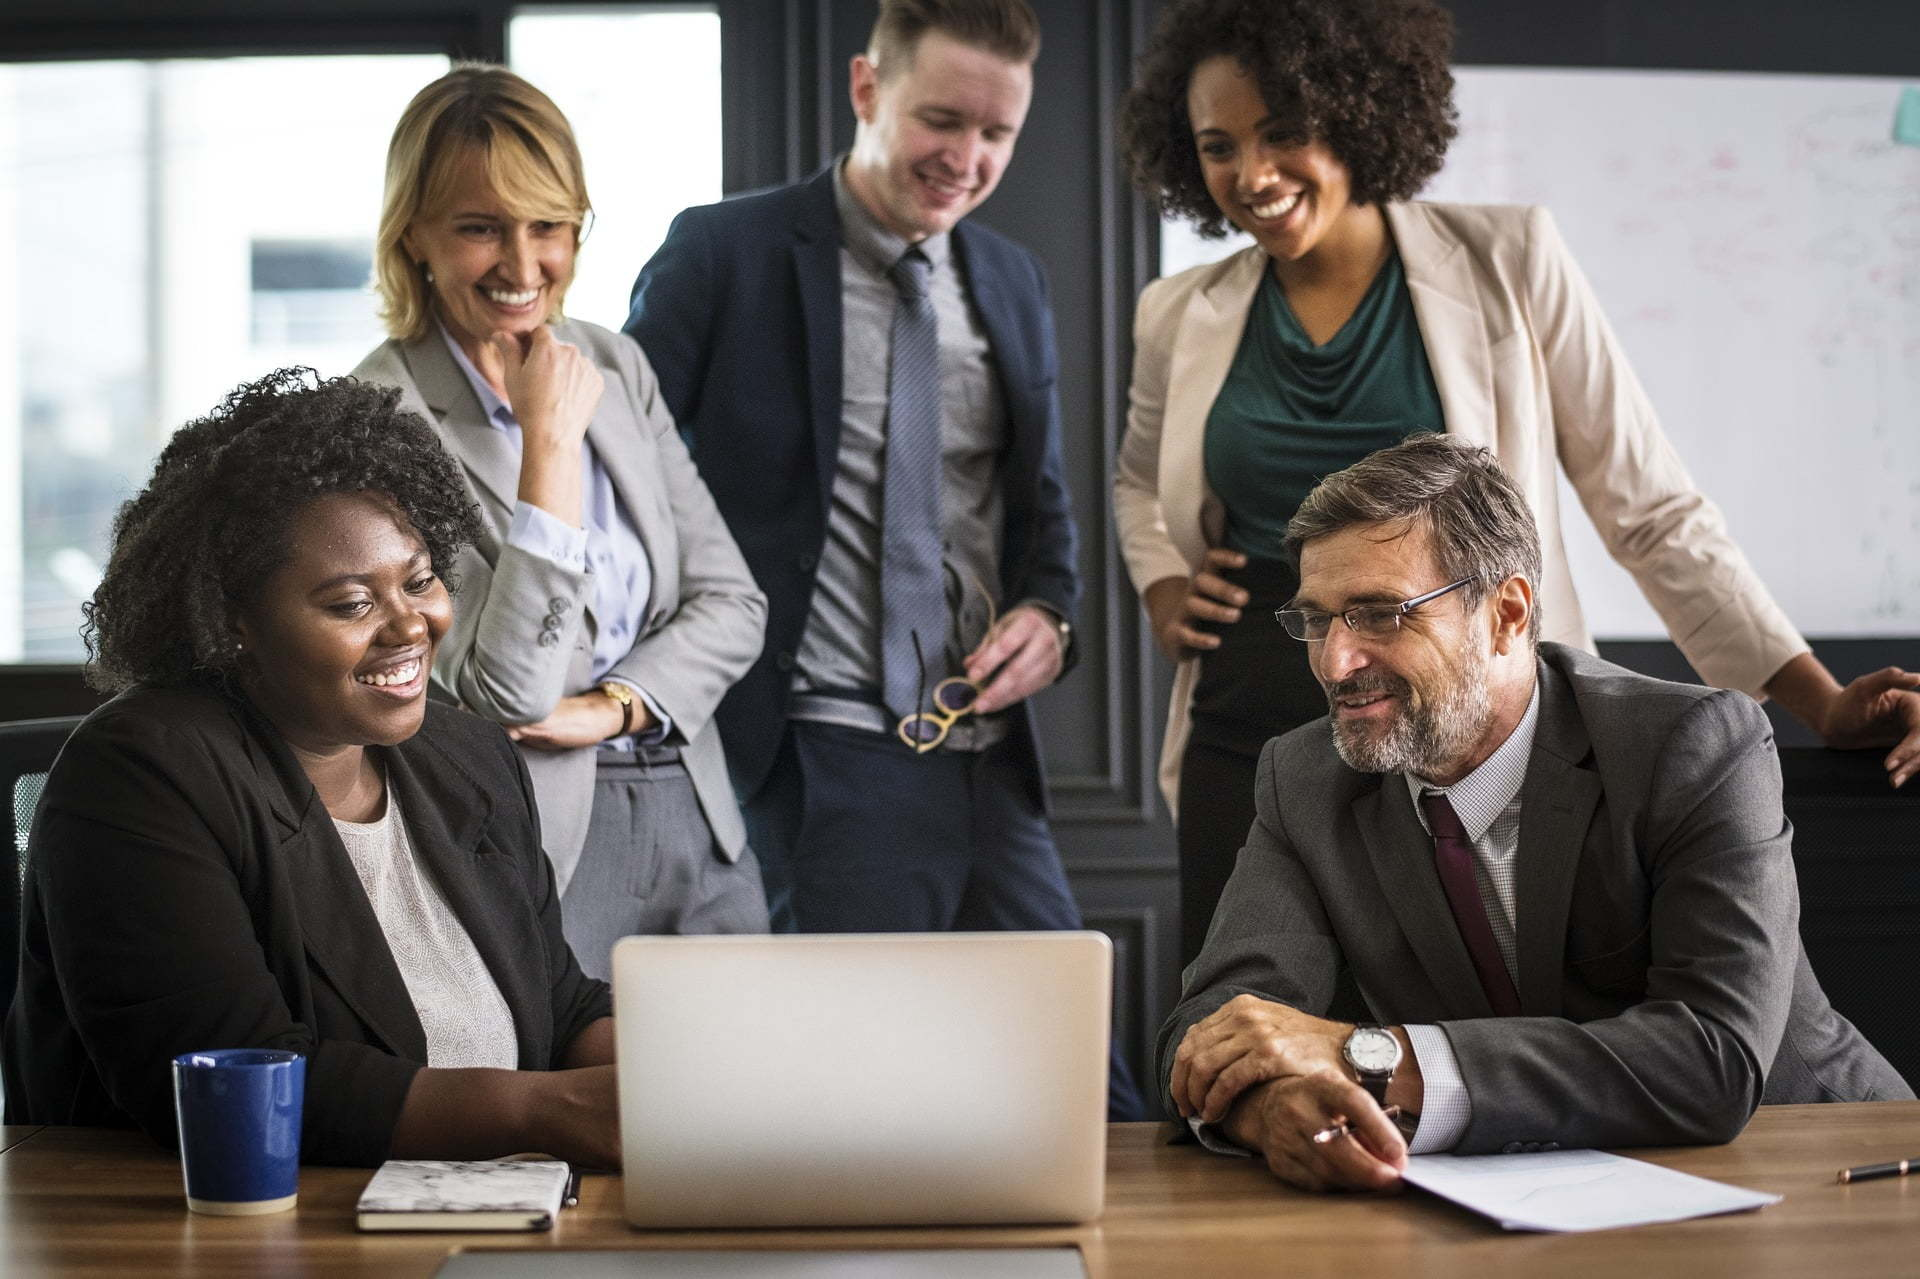
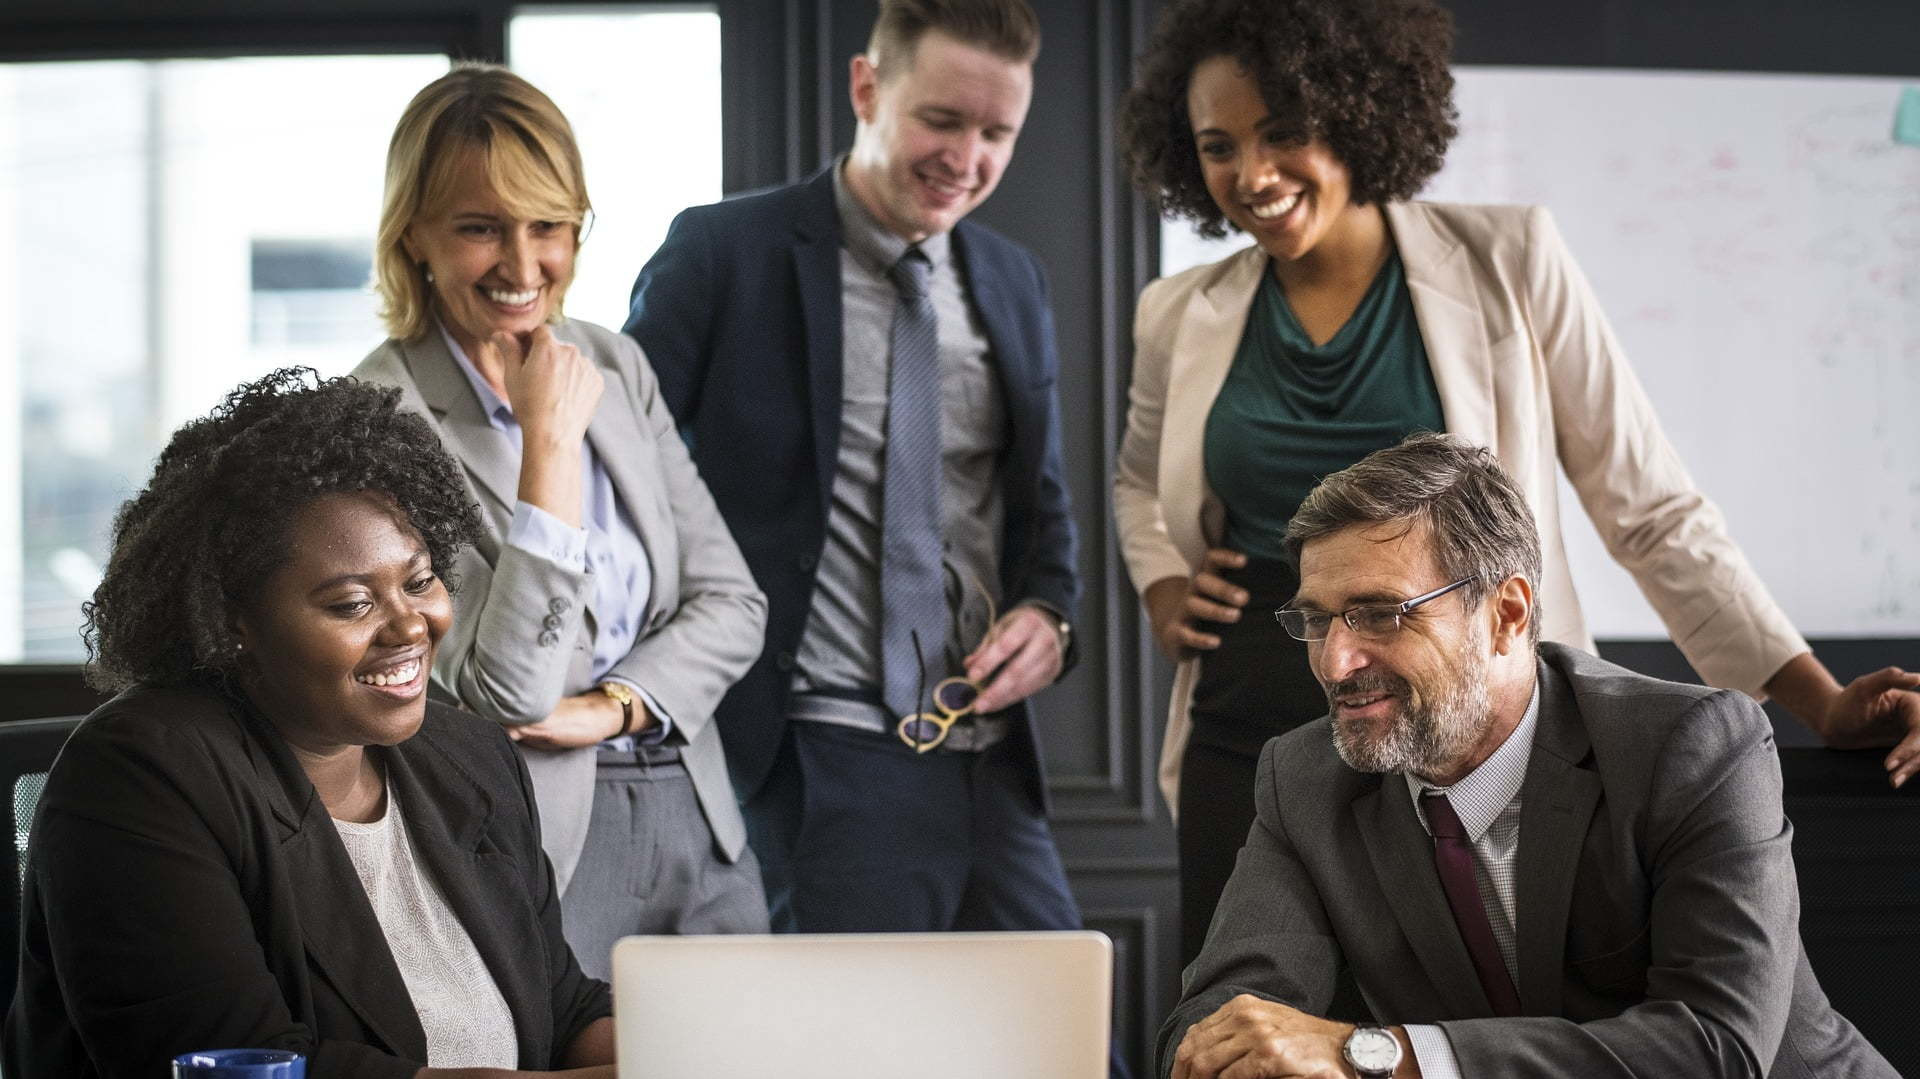
Piccoli cambi di Stile per la homepage (da accertare)

diff --git a/CSS/StyleSheet.css b/CSS/StyleSheet.css
@@ -30,8 +30,8 @@
 ******************************/
 :root {
   --background: #ECE5C7;
-  --links: #bfb382;
-  --color: #00466B;
+  --links: #F4E3AE;
+  --color: #004C75;
   --subcolor: #3A5782;
   --content: #fff;
   --black: #000;
@@ -773,7 +773,7 @@ li.job {
 }*/
 li.job .jobTitle {
   grid-column: 1/span2;
-  background-color: #ECE5C7;
+  background-color: #F4E3AE;
   padding-bottom: 1em;
   border-bottom: 2px solid;
 }
@@ -1720,16 +1720,15 @@ main#Home {
   margin-bottom: 3%;
   display: grid;
   display: -ms-grid;
+  column-gap: 3em;
   grid-template-columns: 1fr 1fr;
   -ms-grid-columns:1fr 1fr;
 }
 
 main#Home img{
-  border: 2px solid #000;
-  border-color: var(--black);
   align-self: center;
-  width: 90%;
-  padding: 1em;
+  width: 100%;
+  border-radius: 15px;
 }
 
 img#firstImg {
@@ -1738,8 +1737,14 @@ img#firstImg {
   -ms-grid-row-span: 2;
   -ms-grid-column: 2;
   grid-column: 2;
-  justify-self: right;
+  margin-bottom: 1em;
+  justify-self: center;
+}
 
+div#Intro, div#Account, div#Function, div#UserProf {
+  border-color: #000;
+  border-right: 2px dashed;
+  border-left: 2px dashed;
 }
 
 div#Intro {
@@ -1747,6 +1752,8 @@ div#Intro {
   grid-row: 1;
   -ms-grid-column: 1;
   grid-column: 1;
+  border-top: 2px dashed;
+  border-radius: 15px 15px 0 0;
 }
 
 div#Account {
@@ -1754,6 +1761,9 @@ div#Account {
   grid-row: 2;
   -ms-grid-column: 1;
   grid-column: 1;
+  border-bottom: 2px dashed;
+  margin-bottom: 1em;
+  border-radius: 0 0 15px 15px;
 }
 
 div#Function {
@@ -1761,6 +1771,8 @@ div#Function {
   grid-row: 3;
   -ms-grid-column: 2;
   grid-column: 2;
+  border-top: 2px dashed;
+  border-radius: 15px 15px 0 0;
 }
 
 div#UserProf {
@@ -1768,6 +1780,8 @@ div#UserProf {
   grid-row: 4;
   -ms-grid-column: 2;
   grid-column: 2;
+  border-bottom: 2px dashed;
+  border-radius: 0 0 15px 15px;
 }
 
 img#secondImg {
@@ -1776,7 +1790,7 @@ img#secondImg {
   -ms-grid-row-span: 2;
   -ms-grid-column: 1;
   grid-column: 1;
-  justify-self: left;
+  justify-self: center;
 }
 
 div#popularJobs {
@@ -1794,7 +1808,7 @@ ul#popularJobsList {
   display: flex;
   flex-direction: row;
   border: 4px solid  #ECE5C7;
-  border-color: var(--background);
+  border-color: var(--links);
   border-radius: 10px;
 }
 
@@ -1805,7 +1819,7 @@ ul#popularJobsList li {
   margin: 1em;
   padding: 1em;
   background: #ECE5C7;
-  background-color: var(--background);
+  background-color: var(--links);
   border-radius: 10px;
 }
 
